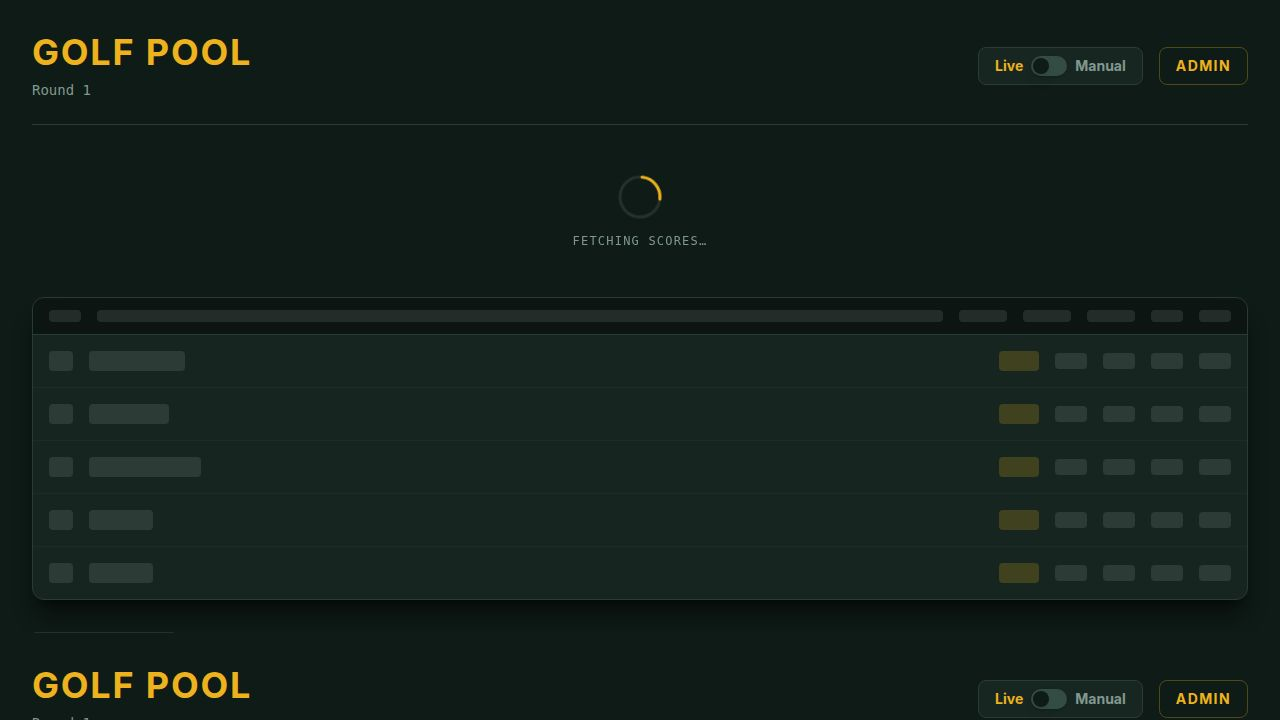
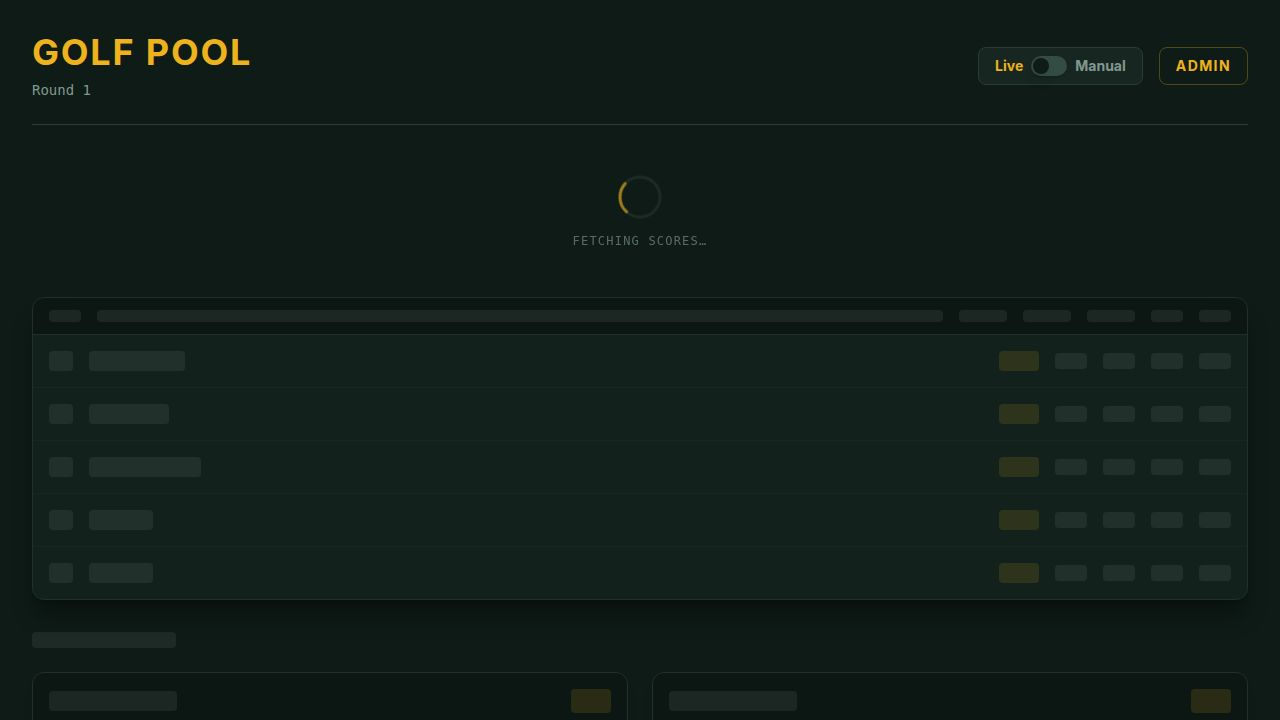
Make the top scoreboard section horizontally scrollable on mobile devices
Adjusted the home page to wrap the leaderboard table in a horizontally scrolling container and removed responsive hiding from columns, ensuring all rounds are visible on smaller screens.

Replit-Commit-Author: Agent
Replit-Commit-Session-Id: 9368941a-d98b-412a-b995-7e0fd925e067
Replit-Commit-Checkpoint-Type: full_checkpoint
Replit-Commit-Event-Id: 44d9d572-95ff-4790-9b54-dc821b704233
Replit-Commit-Screenshot-Url: https://storage.googleapis.com/screenshot-production-us-central1/9fdd505d-43f3-4478-96d3-959330441d65/9368941a-d98b-412a-b995-7e0fd925e067/3zAPjKx
Replit-Helium-Checkpoint-Created: true

diff --git a/artifacts/golf-pool/src/pages/home.tsx b/artifacts/golf-pool/src/pages/home.tsx
@@ -166,18 +166,19 @@ export default function Home() {
         ) : (
           <main className="space-y-12">
             <Card className="bg-card border-card-border overflow-hidden rounded-xl shadow-xl shadow-black/50">
+              <div className="overflow-x-auto">
               <Table>
                 <TableHeader className="bg-black/40">
                   <TableRow className="border-border hover:bg-transparent">
-                    <TableHead className="w-16 text-center text-muted-foreground uppercase font-bold text-xs tracking-wider">Pos</TableHead>
-                    <TableHead className="text-muted-foreground uppercase font-bold text-xs tracking-wider">Player</TableHead>
+                    <TableHead className="w-14 text-center text-muted-foreground uppercase font-bold text-xs tracking-wider">Pos</TableHead>
+                    <TableHead className="text-muted-foreground uppercase font-bold text-xs tracking-wider min-w-[100px]">Player</TableHead>
                     <TableHead className="text-right text-muted-foreground uppercase font-bold text-xs tracking-wider">Total</TableHead>
-                    <TableHead className="text-right text-muted-foreground uppercase font-bold text-xs tracking-wider hidden sm:table-cell">Thru</TableHead>
-                    <TableHead className="text-right text-muted-foreground uppercase font-bold text-xs tracking-wider hidden sm:table-cell">Today</TableHead>
+                    <TableHead className="text-right text-muted-foreground uppercase font-bold text-xs tracking-wider">Thru</TableHead>
+                    <TableHead className="text-right text-muted-foreground uppercase font-bold text-xs tracking-wider">Today</TableHead>
                     <TableHead className="text-right text-muted-foreground uppercase font-bold text-xs tracking-wider">R1</TableHead>
                     <TableHead className="text-right text-muted-foreground uppercase font-bold text-xs tracking-wider">R2</TableHead>
-                    <TableHead className="text-right text-muted-foreground uppercase font-bold text-xs tracking-wider hidden md:table-cell">R3</TableHead>
-                    <TableHead className="text-right text-muted-foreground uppercase font-bold text-xs tracking-wider hidden md:table-cell">R4</TableHead>
+                    <TableHead className="text-right text-muted-foreground uppercase font-bold text-xs tracking-wider">R3</TableHead>
+                    <TableHead className="text-right text-muted-foreground uppercase font-bold text-xs tracking-wider">R4</TableHead>
                   </TableRow>
                 </TableHeader>
                 <TableBody>
@@ -193,12 +194,12 @@ export default function Home() {
                         <TableCell className={`text-right font-mono font-bold text-lg ${entry.toPar !== null && entry.toPar < 0 ? 'text-primary' : entry.toPar && entry.toPar > 0 ? 'text-muted-foreground' : ''}`}>
                           {formatScore(entry.toPar)}
                         </TableCell>
-                        <TableCell className="text-right text-muted-foreground text-sm font-mono hidden sm:table-cell">{entry.thru}</TableCell>
-                        <TableCell className="text-right font-mono text-sm hidden sm:table-cell">{formatScore(entry.today)}</TableCell>
+                        <TableCell className="text-right text-muted-foreground text-sm font-mono">{entry.thru}</TableCell>
+                        <TableCell className="text-right font-mono text-sm">{formatScore(entry.today)}</TableCell>
                         <TableCell className="text-right font-mono">{formatScore(entry.r1)}</TableCell>
                         <TableCell className="text-right font-mono">{formatScore(entry.r2)}</TableCell>
-                        <TableCell className="text-right font-mono hidden md:table-cell">{formatScore(entry.r3)}</TableCell>
-                        <TableCell className="text-right font-mono hidden md:table-cell">{formatScore(entry.r4)}</TableCell>
+                        <TableCell className="text-right font-mono">{formatScore(entry.r3)}</TableCell>
+                        <TableCell className="text-right font-mono">{formatScore(entry.r4)}</TableCell>
                       </TableRow>
                     ))
                   ) : (
@@ -213,6 +214,7 @@ export default function Home() {
                   )}
                 </TableBody>
               </Table>
+              </div>
               {mode === "manual" && (
                 <div className="p-4 bg-black/20 border-t border-border flex items-center justify-between">
                    <div className="flex items-center gap-2">
@@ -394,18 +396,18 @@ function ManualTableRow({ entry, rank, onSave }: { entry: any, rank: number, onS
       <TableCell className={`text-right font-mono font-bold text-lg ${total < 0 ? 'text-primary' : total > 0 ? 'text-muted-foreground' : ''}`}>
         {formatScore(total)}
       </TableCell>
-      <TableCell className="hidden sm:table-cell"></TableCell>
-      <TableCell className="hidden sm:table-cell"></TableCell>
+      <TableCell></TableCell>
+      <TableCell></TableCell>
       <TableCell className="text-right">
         <Input value={r1} onChange={e => setR1(e.target.value)} className="w-16 ml-auto text-right font-mono h-8" />
       </TableCell>
       <TableCell className="text-right">
         <Input value={r2} onChange={e => setR2(e.target.value)} className="w-16 ml-auto text-right font-mono h-8" />
       </TableCell>
-      <TableCell className="text-right hidden md:table-cell">
+      <TableCell className="text-right">
         <Input value={r3} onChange={e => setR3(e.target.value)} className="w-16 ml-auto text-right font-mono h-8" />
       </TableCell>
-      <TableCell className="text-right hidden md:table-cell">
+      <TableCell className="text-right">
         <Input value={r4} onChange={e => setR4(e.target.value)} className="w-16 ml-auto text-right font-mono h-8" />
       </TableCell>
       <TableCell className="text-right">